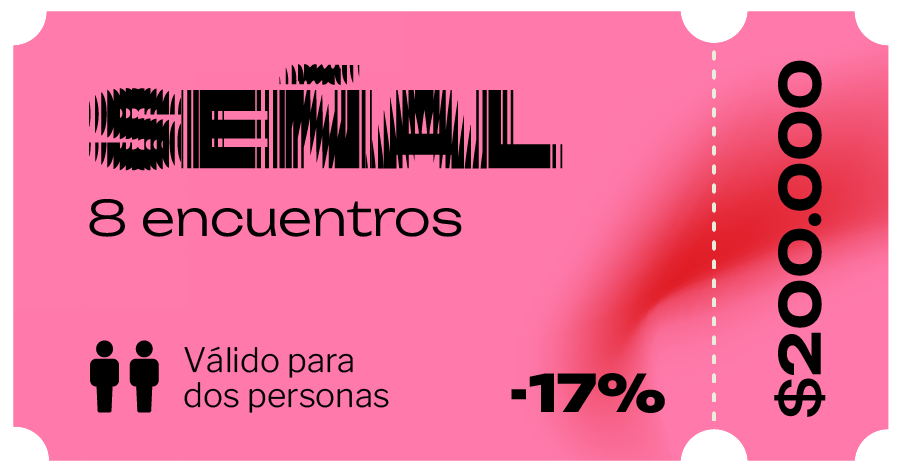
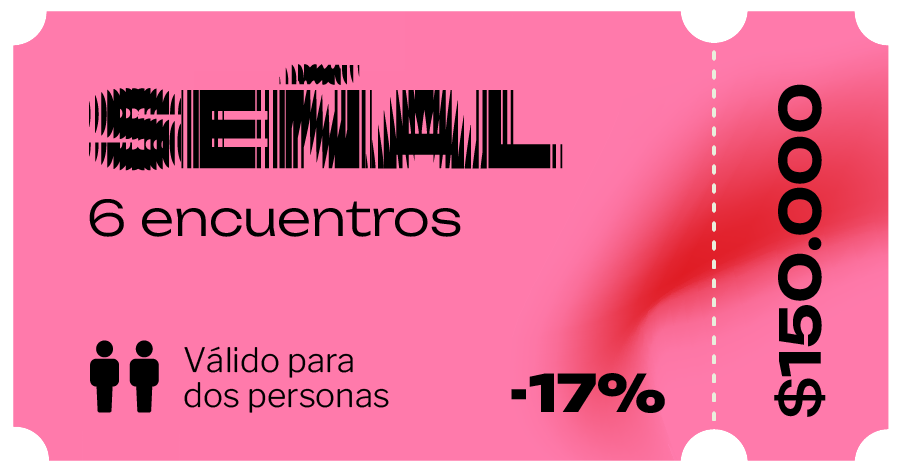
nversion julio 2024

Changed region(s): [[0.8419, 0.1184, 0.9354, 0.7992], [0.0935, 0.4144, 0.5301, 0.5032]]

diff --git a/src/componentes/Section5.js b/src/componentes/Section5.js
@@ -111,9 +111,8 @@ function Section({ minHeight }) {
                       <MdTripOrigin />
                     </span>
                     <div className="text-black  font-unbounded  ml-2 font-normal text-left text-xs sd:text-xl md:text-xl lg:text-xl xl:text-xl ">
-                    Acceso para dos personas al{" "}
-                      <span className="font-bold">programa completo</span> de
-                      SEÑAL.
+                    Acceso para dos personas a{" "}
+                      <span className="font-bold">6 encuentros</span> SEÑAL consecutivos.
                     </div>
                   </div>
                   <div className="flex items-start">
@@ -171,8 +170,7 @@ function Section({ minHeight }) {
                       <MdTripOrigin />
                     </span>
                     <div className="text-black  font-unbounded  ml-2 font-normal text-left text-xs sd:text-xl md:text-xl lg:text-xl xl:text-xl ">
-                    Acceso para dos personas a <span className="font-bold">6 encuentros</span>{" "}
-                      SEÑAL consecutivos.
+                    Acceso para dos personas a <span className="font-bold">3 encuentros</span>{" "} SEÑAL consecutivos.
                     </div>
                   </div>
                   <div className="flex items-start">
